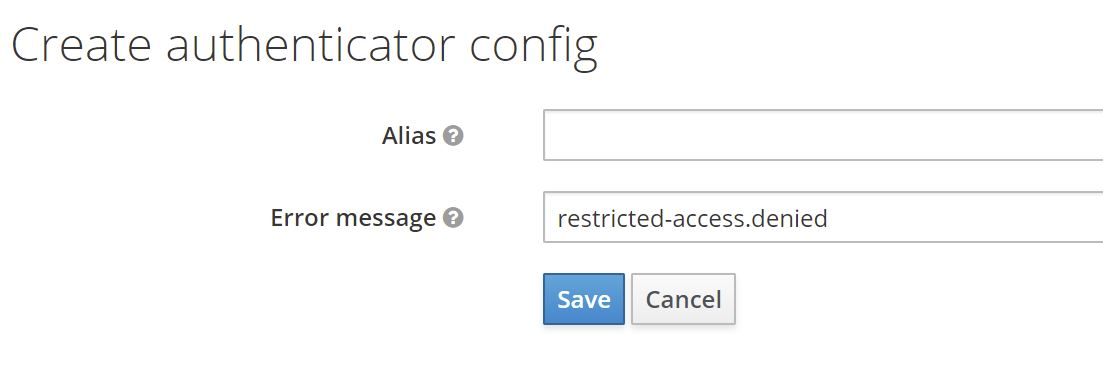
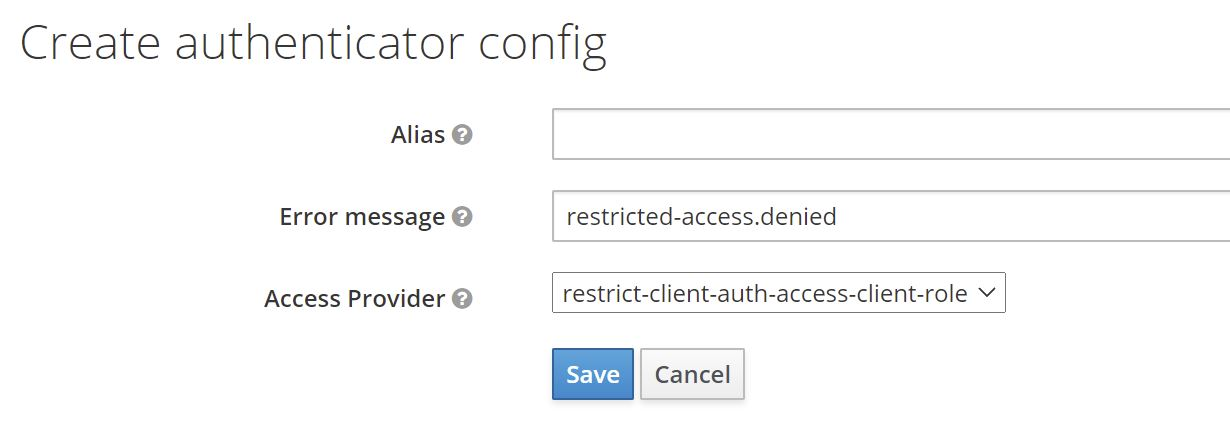
chore: Update README with latest screenshots and configuration options
This is just for the simple role-based access provider.

diff --git a/src/test/java/de/sventorben/keycloak/authorization/client/LoginIT.java b/src/test/java/de/sventorben/keycloak/authorization/client/LoginIT.java
@@ -66,8 +66,8 @@ class LoginIT {
     }
 
     /**
-     * If no access provider is given configured in the authenticator, and no default access provider is configured via
-     * SPI configuration, then we fallback to restrict-client-auth-access-client-role.
+     * If no access provider is configured for the authenticator, and no server-wide default access provider is configured via
+     * SPI configuration, then we fallback to 'restrict-client-auth-access-client-role'.
      */
     @Nested
     class RestrictedClient {

diff --git a/README.md b/README.md
@@ -72,23 +72,21 @@ Packages are being released to GitHub Packages. You find the coordinates [here](
 
 ### Configuring the authenticator
 
-First, you need to add the authenticator to your desired flow. Mark the authenticator as `Required`. Bind your newly created flow as desired - either as a default for the whole realm or on a per-client basis.
-
+1) First, you need to add the authenticator to your desired flow. Mark the authenticator as `Required`.
+Then bind your newly created flow as desired - either as a default for the whole realm or on a per-client basis.
 See the image below for an example.
-
 ![Example flow](docs/images/flow.jpg)
+2) Second, configure the authenticator by clicking on `Actions -> Config` and select `restrict-client-auth-access-client-role` as the `Access Provider`.
+![Role-based access restriction](docs/images/config-client-role-based.jpg)
+3) Third, you need to add a role named `restricted-access` to the client you want to restrict access to.
+See the image below for an example.
+![Client role configuration](docs/images/client-role.jpg)
+4) Afterwards, no user can authenticate to this client. To allow a user to authenticate, you need to assign the role `restricted-access` to the user. You may do so either by assigning the role to the user directly or via groups or combined roles.
 
 > ⚠ **User identity**:
 >
 > The authenticator needs a user identity to check whether the user has the desired role or not. Hence, ensure that you have steps/executions in your flow prior to this authenticator that can ensure user's identity.
 
-Second, you need to add a role named `restricted-access` to the client you want to restrict access to.
-
-See the image below for an example.
-
-![Client role configuration](docs/images/client-role.jpg)
-
-Afterwards, no user can authenticate to this client. To allow a user to authenticate, you need to assign the role `restricted-access` to the user. You may do so either by assigning the role to the user directly or via groups or combined roles.
 
 ### Using a custom error message
 
